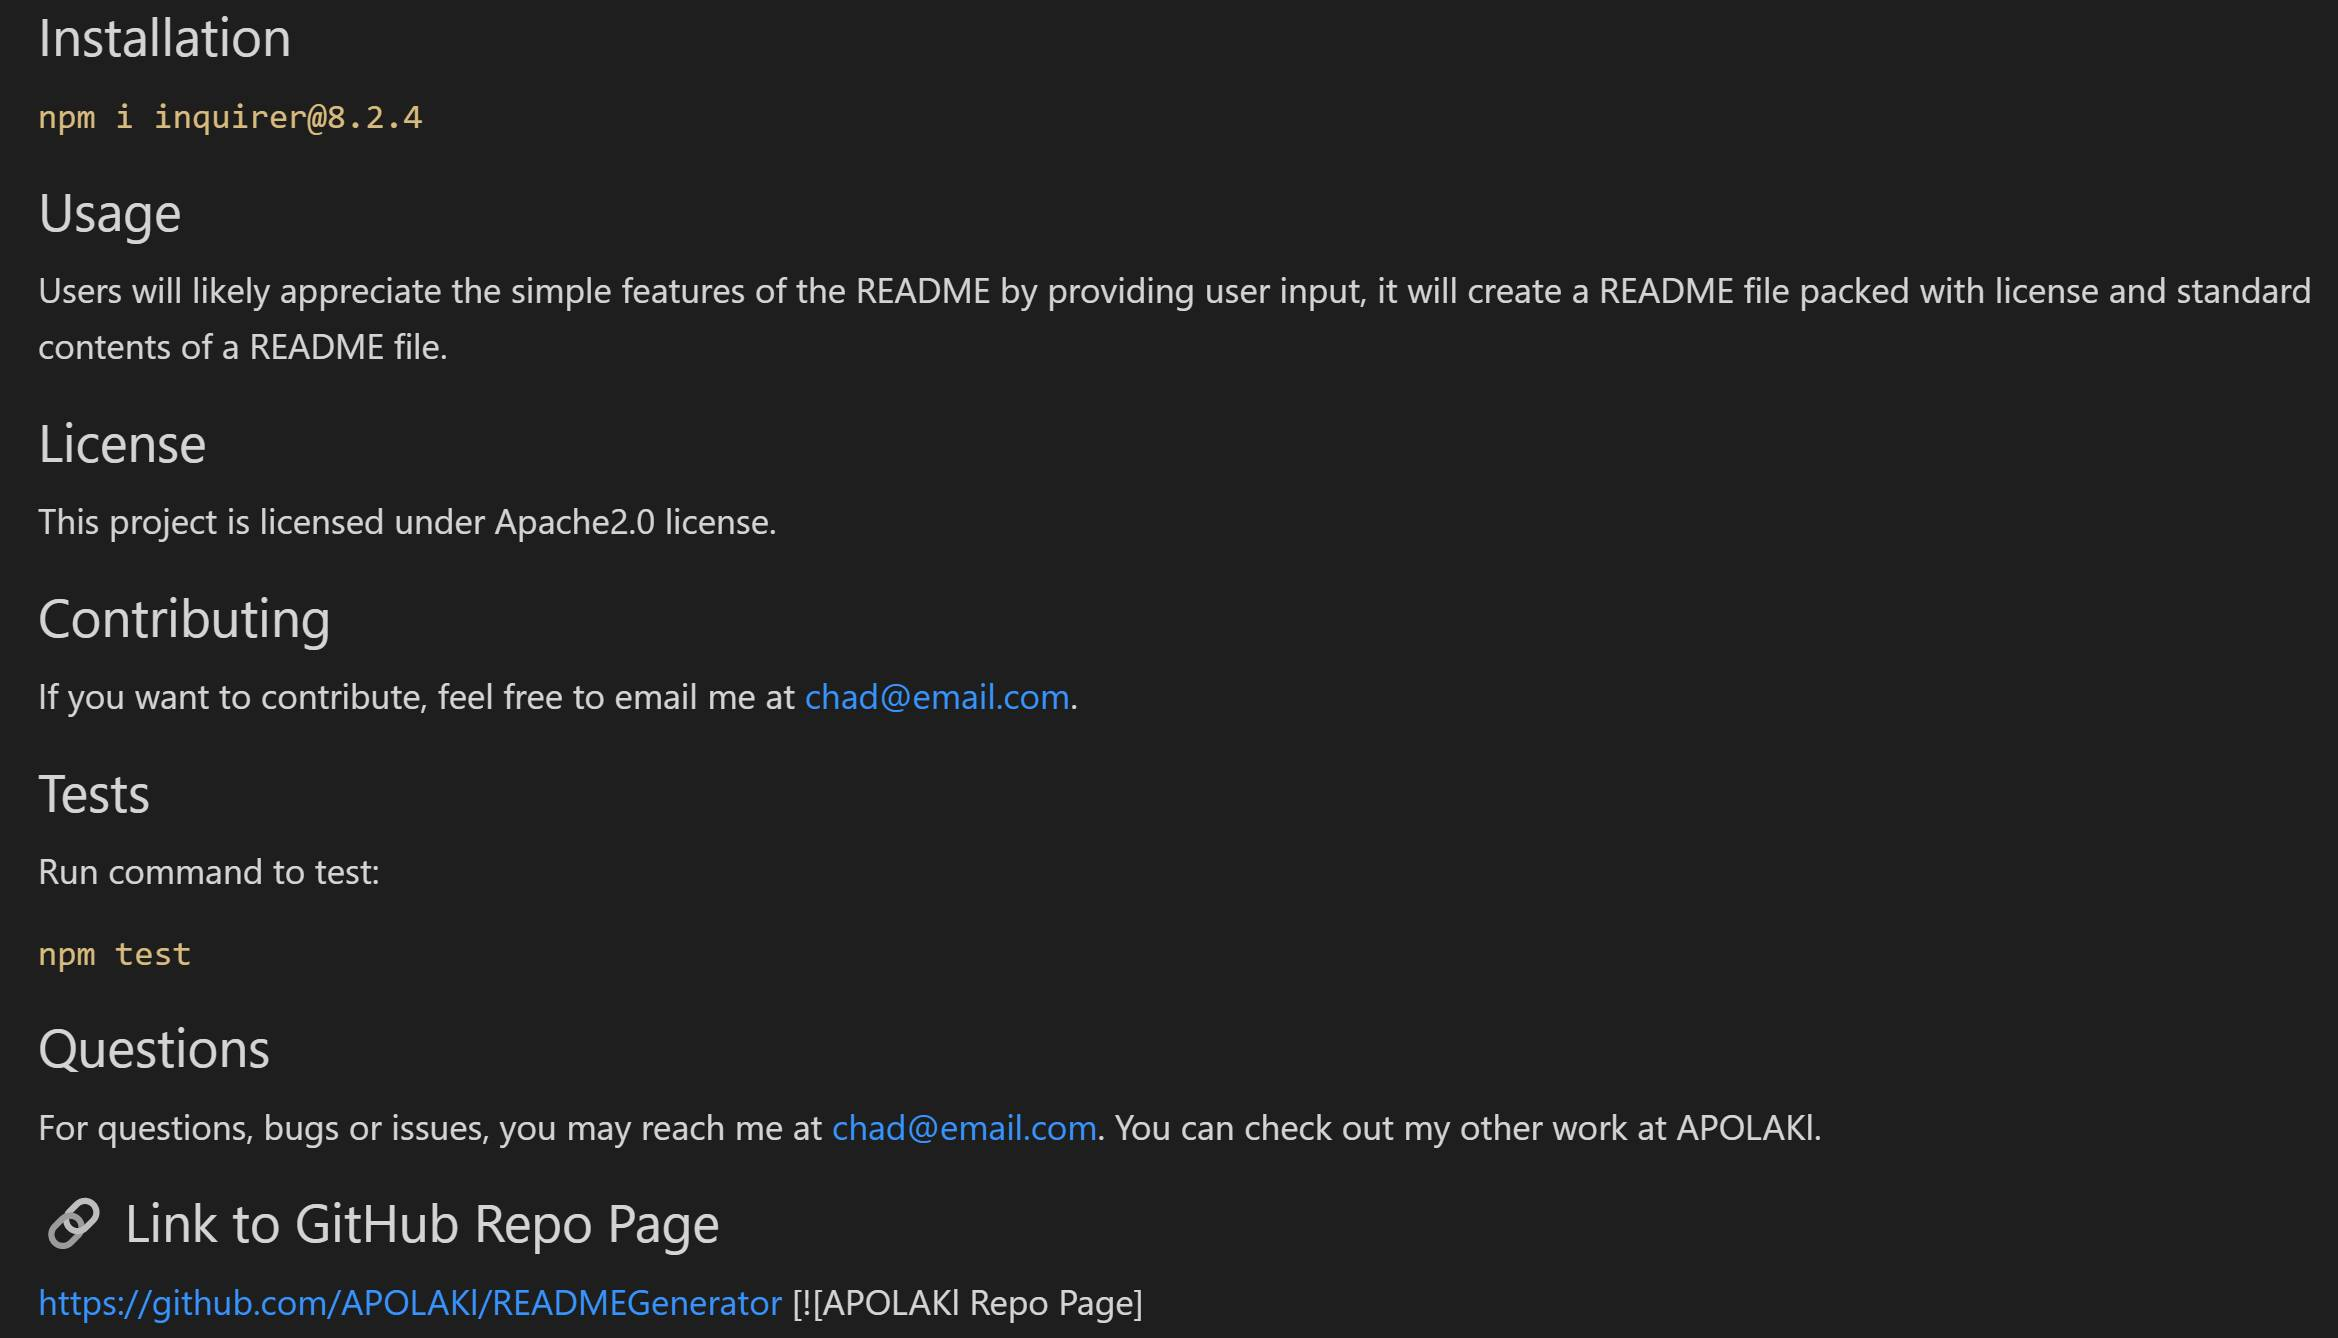
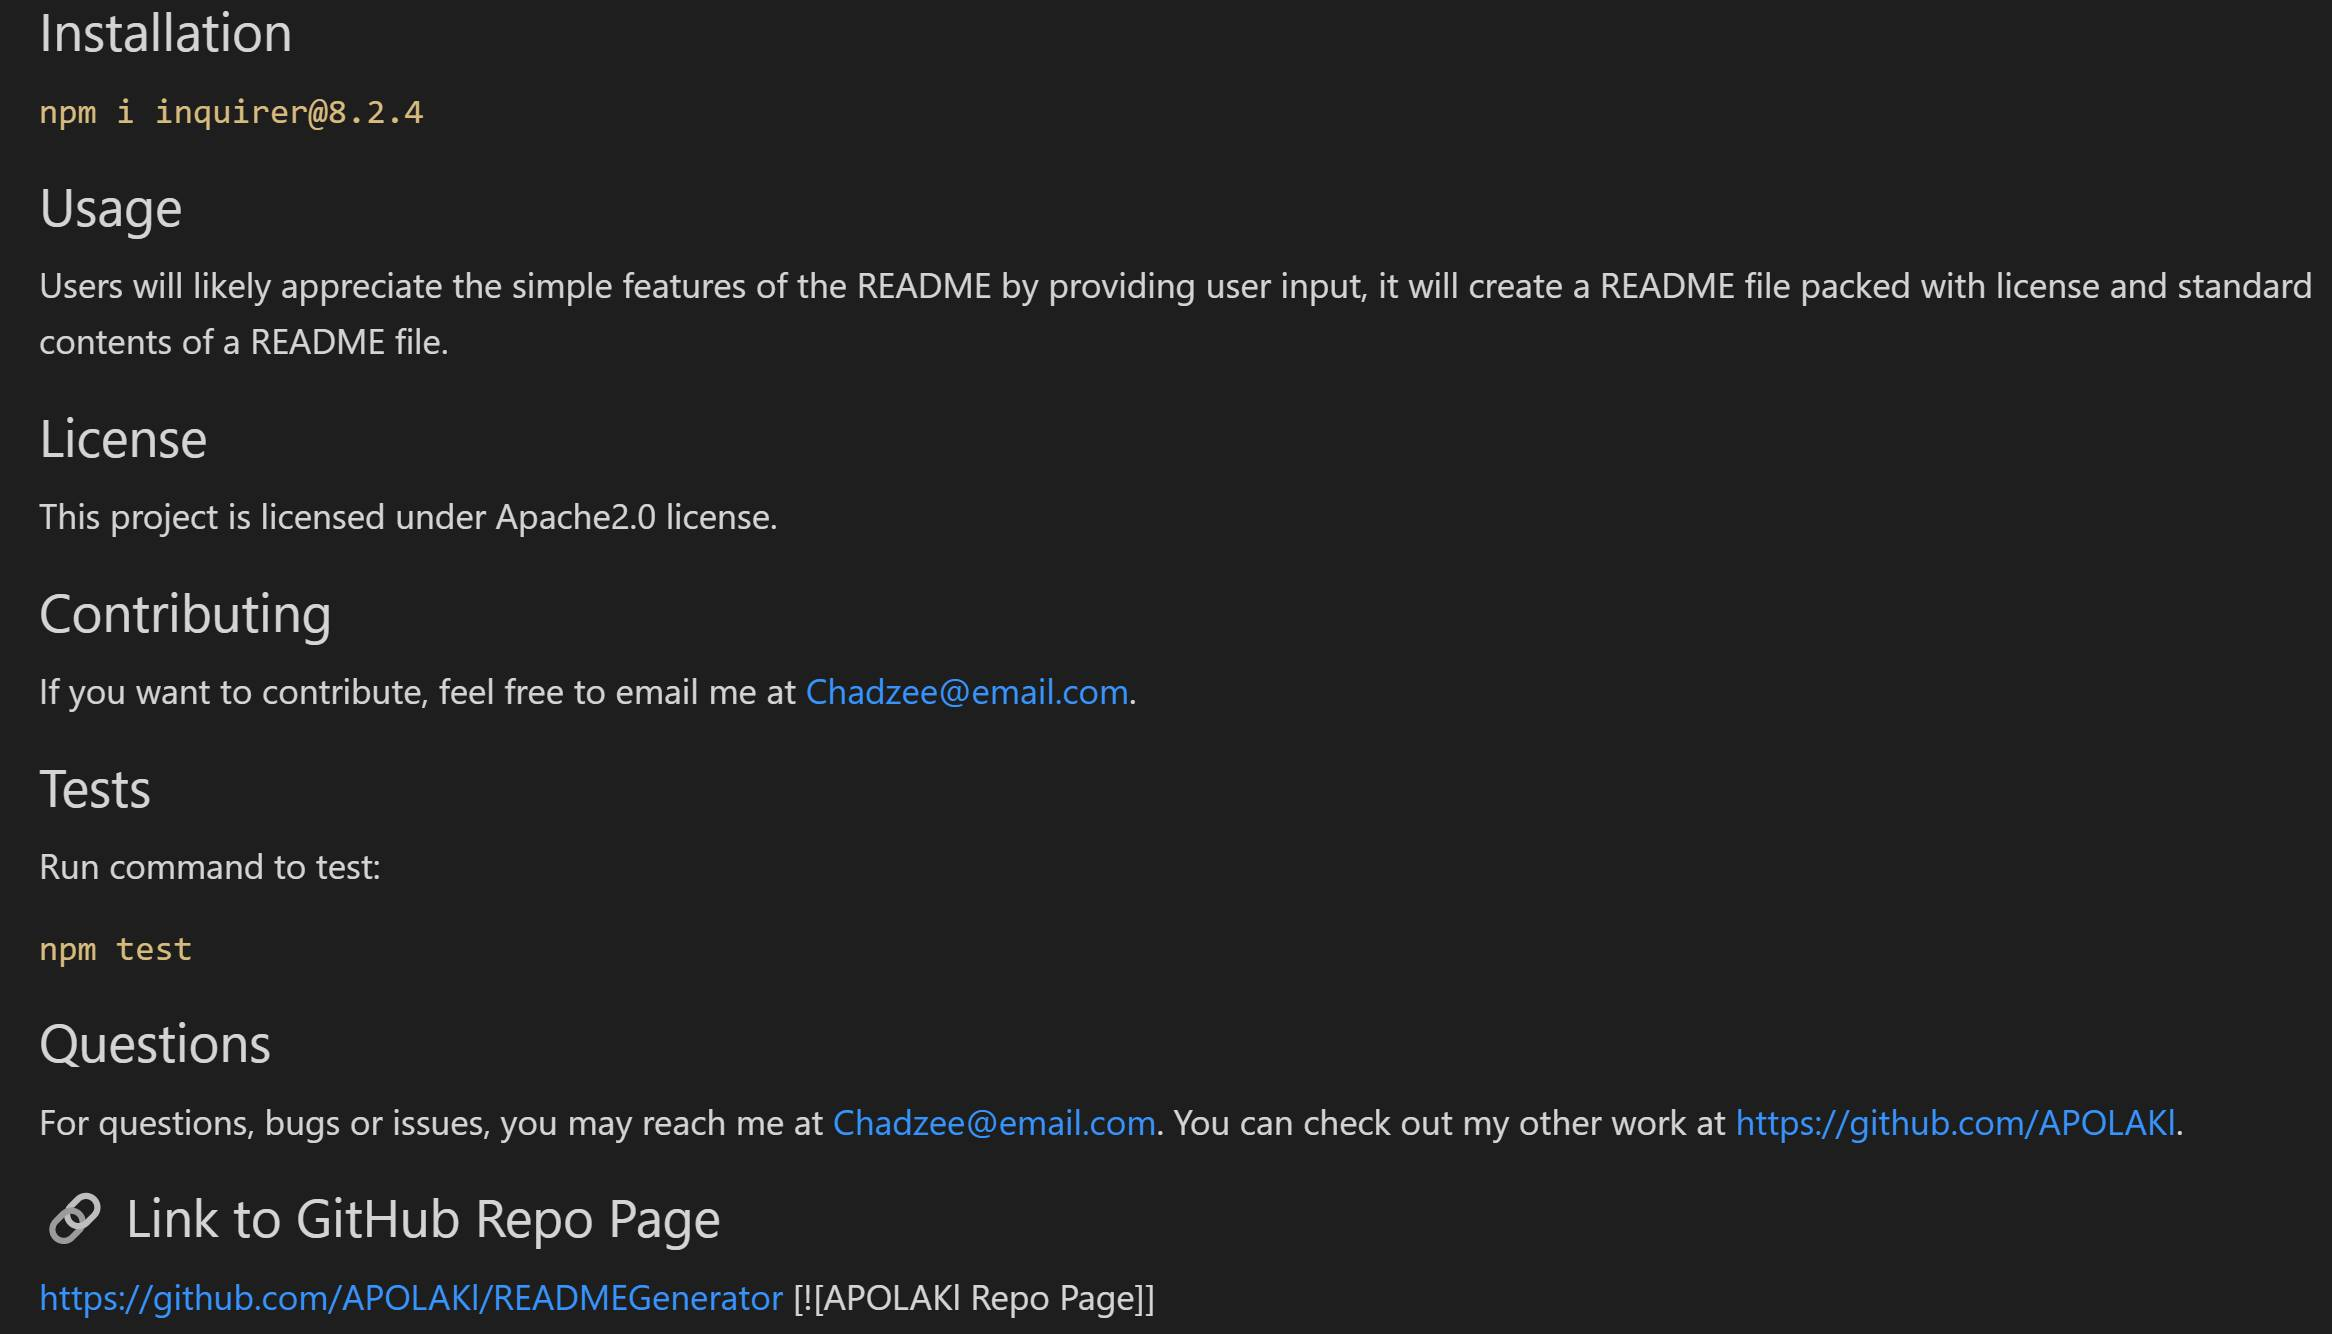
Eight commit - updated sample README and sampleSS2

diff --git a/index.js b/index.js
@@ -109,7 +109,7 @@ ${answers.test}
 ## Questions
 
 For questions, bugs or issues, you may reach me at ${answers.email}. 
-You can check out my other work at ${answers.github}.
+You can check out my other work at https://github.com/${answers.github}.
 
 
 ## 🔗 Link to GitHub Repo Page

diff --git a/README.md b/README.md
@@ -37,7 +37,7 @@ This project is licensed under Apache2.0 license.
 
 ## Contributing
 
-If you want to contribute, feel free to email me at chad@email.com.
+If you want to contribute, feel free to email me at Chadzee@email.com.
 
 ## Tests
 
@@ -50,9 +50,9 @@ npm test
 
 ## Questions
 
-For questions, bugs or issues, you may reach me at chad@email.com. 
-You can check out my other work at APOLAKl.
+For questions, bugs or issues, you may reach me at Chadzee@email.com. 
+You can check out my other work at https://github.com/APOLAKl.
 
 
 ## 🔗 Link to GitHub Repo Page
-https://github.com/APOLAKl/READMEGenerator  [![APOLAKl Repo Page]
+https://github.com/APOLAKl/READMEGenerator  [![APOLAKl Repo Page]]
